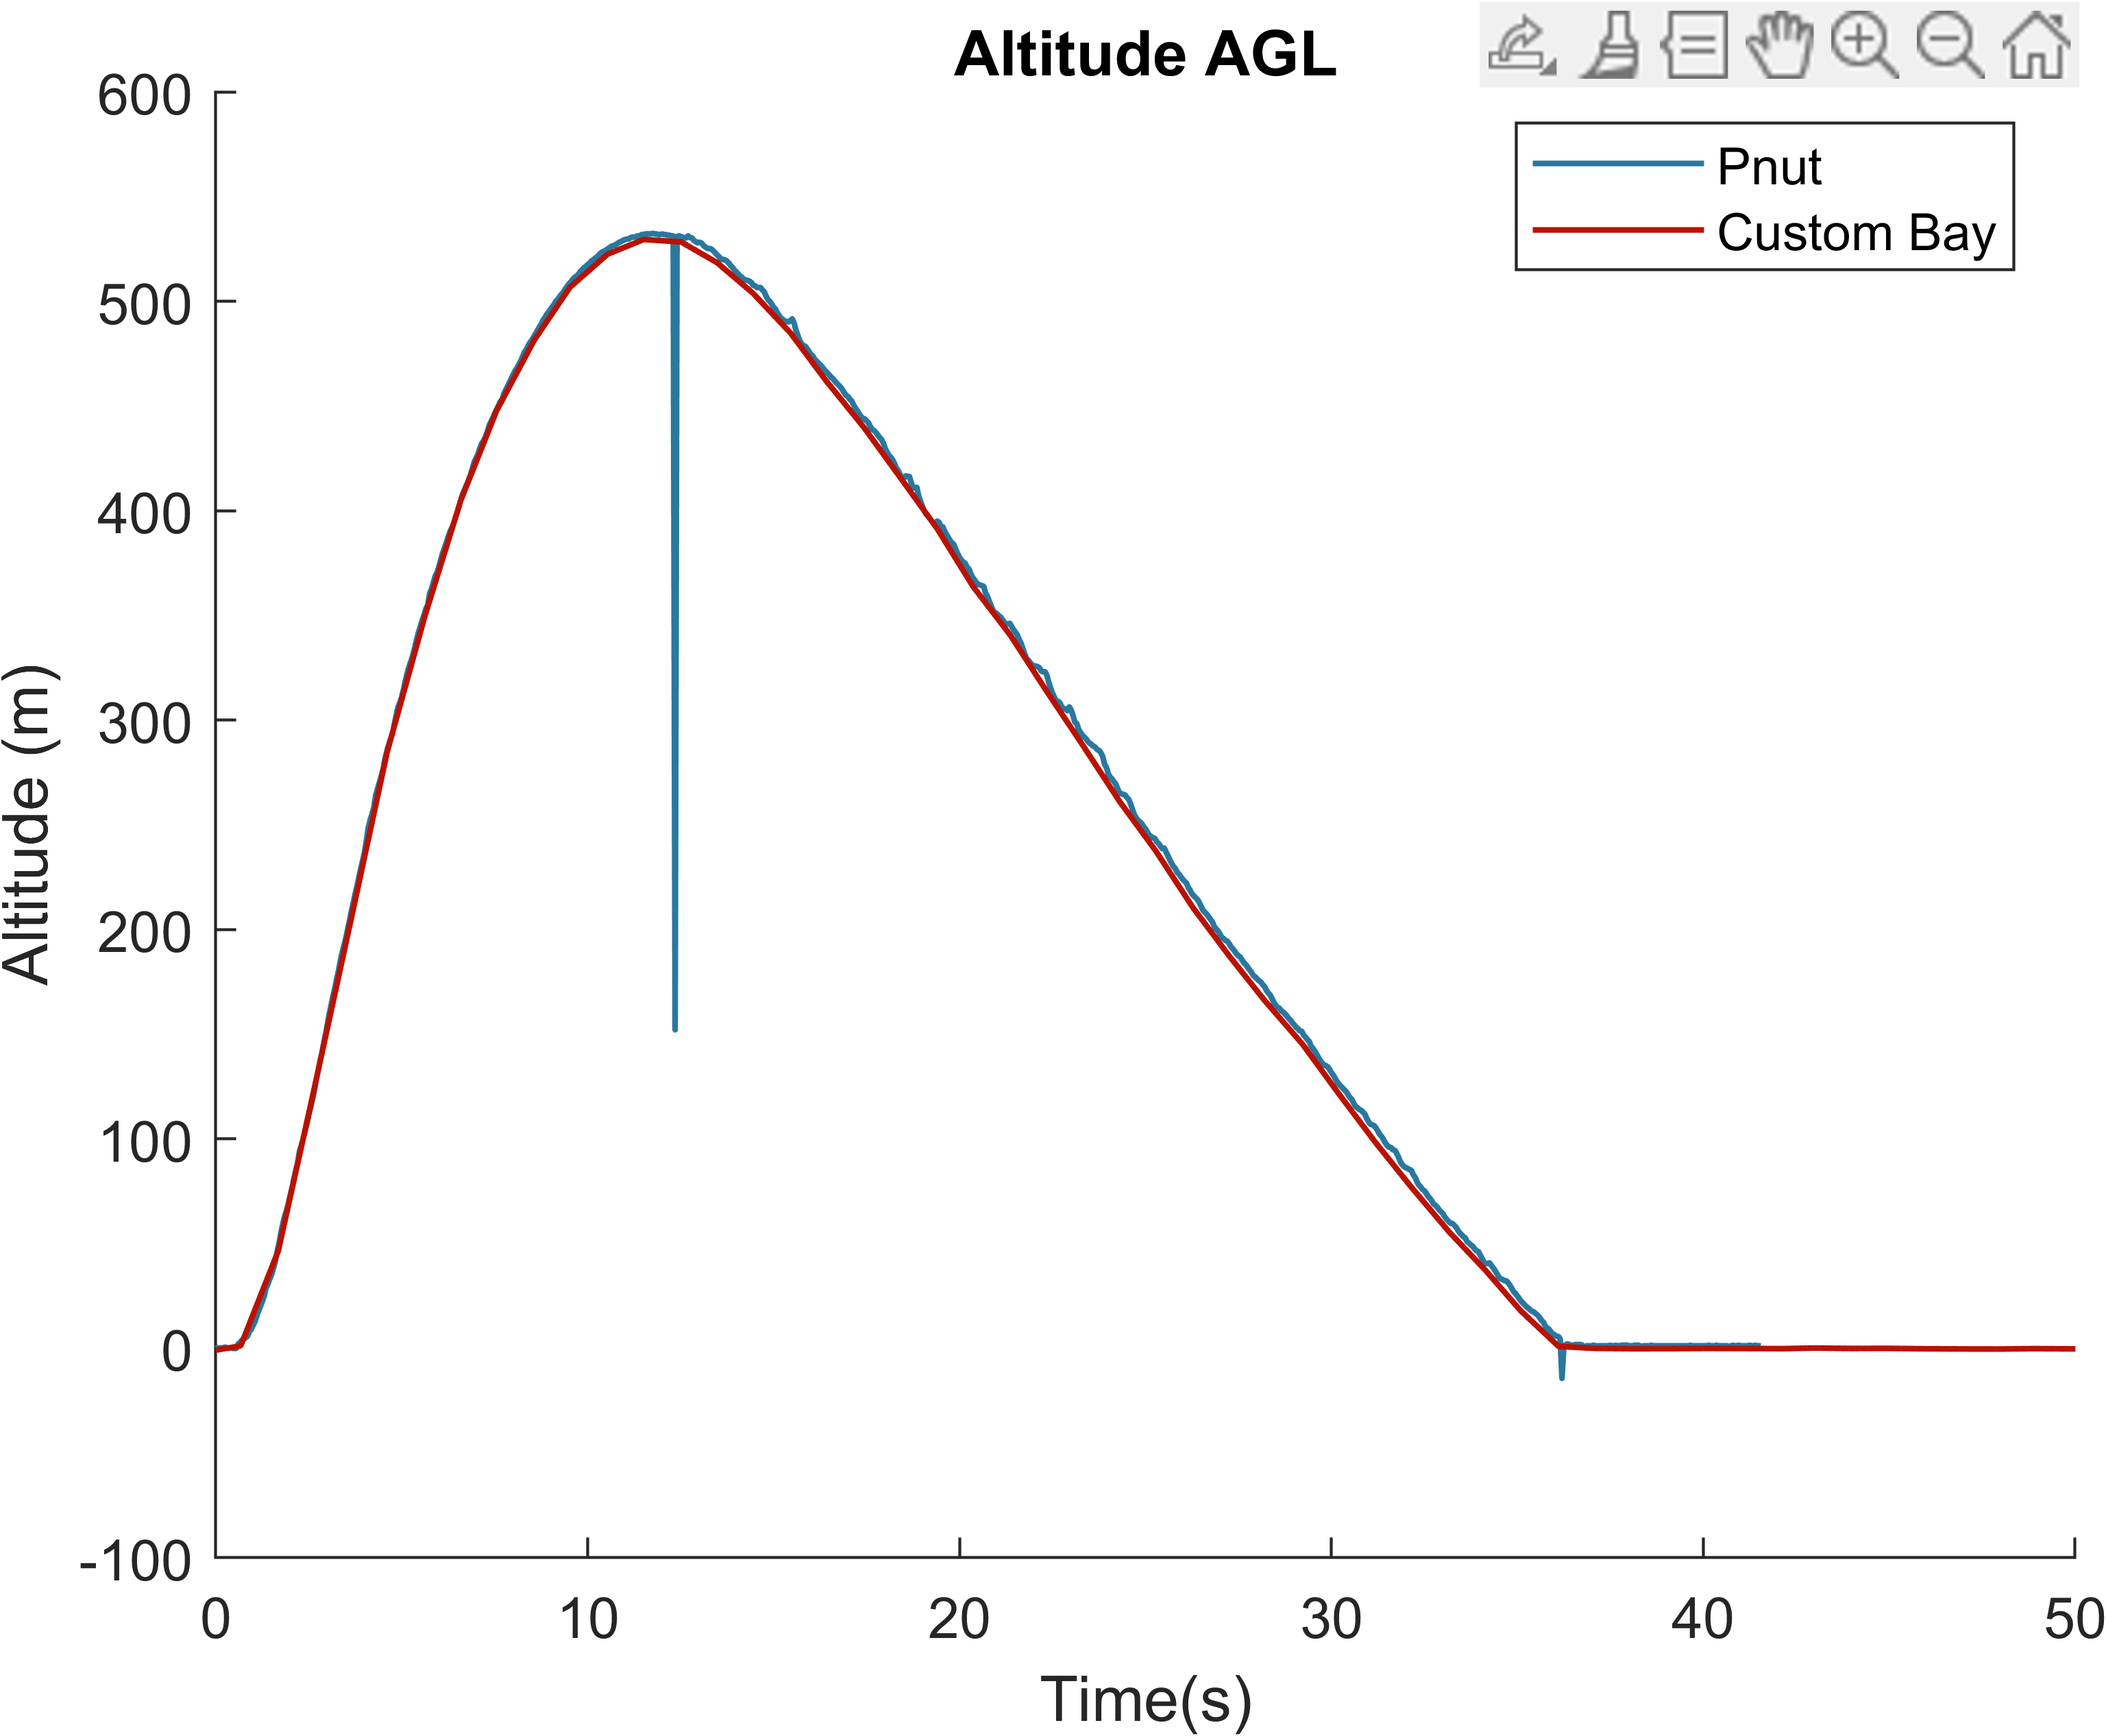
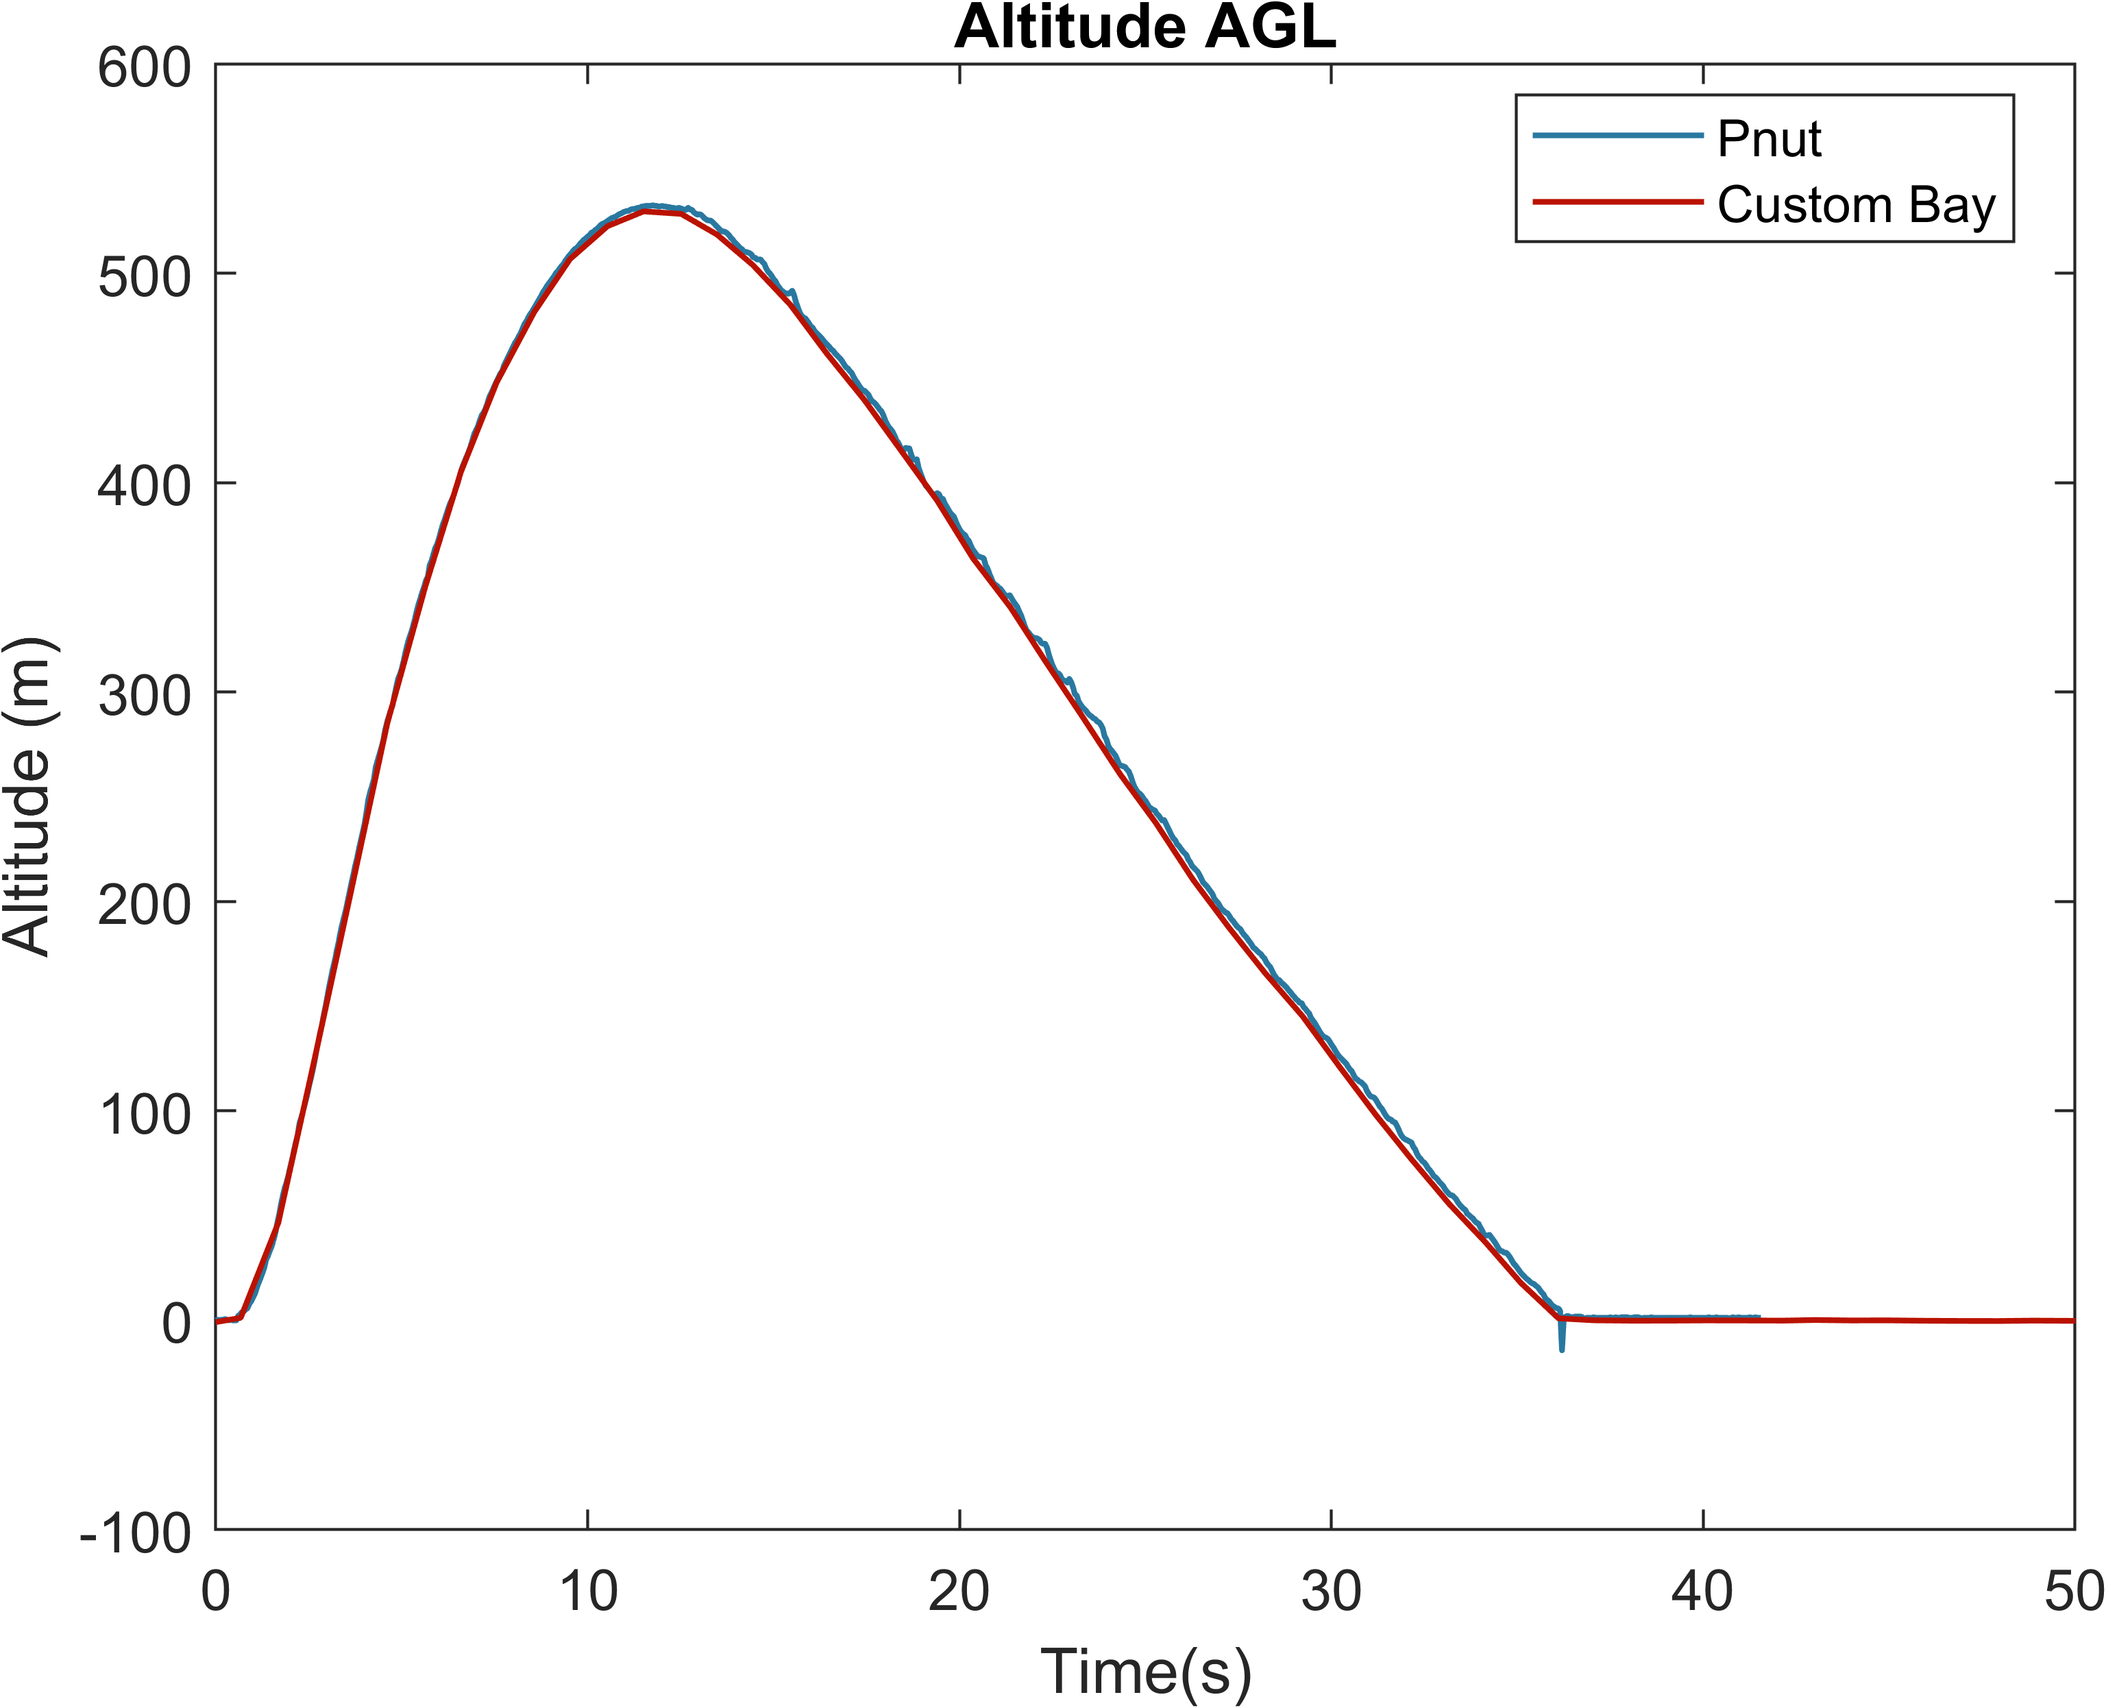
Added things to plots

diff --git a/astra.m b/astra.m
@@ -80,7 +80,6 @@ ylabel('Pressure (Pa)')
 xlim([275 325])
 exportgraphics(gcf, sprintf('%s_pressure.png', launch), 'Resolution', 600);
 
-%%
 inp = input('Run ASTRA MkII Cleaner?');
 
 if inp == true
@@ -155,6 +154,7 @@ exportgraphics(gcf, sprintf('%s_temperature.png', launch), 'Resolution', 600);
 figure
 plot(t, 'LineWidth', lw, 'Color', col4)
 title('Data Recording - Custom')
+box on
 xlabel('Data Point');
 ylabel('Time Elapsed')
 exportgraphics(gcf, sprintf('%s_recording.png', launch), 'Resolution', 600);
@@ -166,6 +166,8 @@ altitude = pnut(:, 2)./3.281;
 vel = pnut(:, 3)./3.281;
 temp = pnut(:, 4);
 
+altitude(t==12.35) = 531;
+
 figure
 plot(t, altitude, 'LineWidth', lw, 'Color', col1)
 hold on
@@ -174,6 +176,7 @@ hold off
 title('Altitude AGL - Pnut')
 legend('Pnut', 'OpenRocket', 'Location', 'best')
 xlabel('Time(s)')
+box on
 ylabel('Altitude (m)')
 exportgraphics(gcf, sprintf('%s_altitude_pnut.png', launch), 'Resolution', 600);
 
@@ -202,6 +205,7 @@ hold off
 title('Velocity - Pnut')
 legend('Pnut', 'OpenRocket', 'Location', 'best')
 xlabel('Time(s)')
+box on
 ylabel('Velocity (m/s)')
 exportgraphics(gcf, sprintf('%s_velocity_pnut.png', launch), 'Resolution', 600);
 
@@ -210,6 +214,7 @@ plot(t, temp, 'LineWidth', lw, 'Color', col3)
 title('Temperature - Pnut')
 xlabel('Time(s)')
 ylabel('Temperature (C)')
+box on
 exportgraphics(gcf, sprintf('%s_temperature_pnut.png', launch), 'Resolution', 600);
 
 inp = input('Run ASTRA MkII PNut comparison?');
